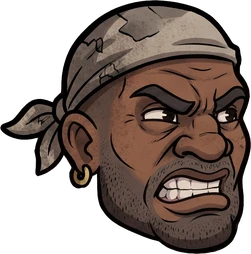
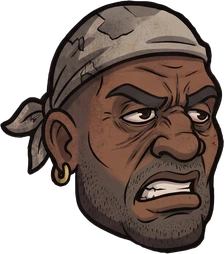
v0.282: ıspanak yerken yürünebilir, yeme %25 uzun; kancalı kafası 10 birim aşağı; yumruklunun kaçış yüzü yenilendi
Claude-Session: https://claude.ai/code/session_015gRKXrSRJC5S67h5b1oD4V

diff --git a/www/js/korsan.js b/www/js/korsan.js
@@ -130,14 +130,14 @@ function ucDeger(e,r,ilk,son){      // kaydedilen uzuv noktalarından biri oyunc
 // ---------- Korsan (insan dövüşçü): oyuncunun iskeleti gibi omuz → dirsek → bilek, kalça → diz; parça halkaları eklem noktası ----------
 // üç görünüm aynı iskelet ve hareketlerle: k = yumruklu, b = bıçaklı, p = tabancalı kaptan (boss)
 const KSK={      // her korsan kendi görsel setinden, tüm parçalar aynı ölçekte (eklem noktaları = parçalardaki halkalar)
-  k:{p:'k_',sc:0.855,A:{ust:[79.1,60.4],on:[134.9,48.3],elN:[87.2,38.2],elF:[92.7,41.0],uy:[111.2,54.2],bacak:[97.1,44.4],bot:[75.0,36.0],govde:[148.6,345.0],kalca:[112.4,26.8],kafa:[173.6,208.1],vur:[173.6,219.1],ahh:[173.6,217.1]},
+  k:{p:'k_',sc:0.855,A:{ust:[79.1,60.4],on:[134.9,48.3],elN:[87.2,38.2],elF:[92.7,41.0],uy:[111.2,54.2],bacak:[97.1,44.4],bot:[75.0,36.0],govde:[148.6,345.0],kalca:[112.4,26.8],kafa:[173.6,208.1],vur:[173.6,219.1],ahh:[173.6,217.1],aci:[155.0,219.0]},
      ust:185.6,on:172.3,uy:248.8,ak:[0,197.5],bh:111.0,bel:641.6,kN:[20.0,84.2],kF:[-16.0,84.2],omN:[-103.0,-220.2],omF:[50.6,-229.2],boyun:[12.6,-330.7]},
   b:{p:'b_',sc:0.794,A:{ust:[55.3,52.2],on:[125.2,45.5],elN:[65.9,32.1],elF:[91.8,40.6],uy:[87.9,39.7],bacak:[60.5,30.8],bot:[86.4,28.8],govde:[118.0,297.0],kalca:[98.4,49.7],kafa:[180.9,236.6],vur:[180.9,241.6],ahh:[180.9,246.6]},
      ust:137.0,on:165.6,uy:191.3,ak:[0,103.2],bh:249.2,bs:1.15,bel:624.4,kN:[15.0,75.9],kF:[-21.0,75.9],omN:[-53.2,-195.0],omF:[58.4,-204.0],boyun:[37.8,-283.5]},
   p:{p:'p_',sc:0.86,bf:1,A:{ust:[57.7,47.7],on:[104.6,39.0],elN:[133.9,38.5],elF:[85.1,40.1],uy:[74.3,45.2],bacak:[70.9,42.3],bot:[57.6,43.8],govde:[126.8,268.8],kalca:[85.8,50.2],kafa:[181.3,224.3],vur:[179.3,230.3],ahh:[179.3,246.3],ates:[3.0,45.9]},
   ust:137.0,on:130.3,uy:196.8,ak:[0,141.7],bh:131.2,bs:1.1,mz:[-0.0,352.4],bel:592.0,kN:[0.0,95.0],kF:[-36.0,95.0],omN:[-96.2,-151.8],omF:[47.8,-181.8],boyun:[-5.0,-231.6]},      // kaptan: belden aşağısı %10 büyük (bs, uyluk, bel yüksekliği), kafa 10 birim ileride
   h:{p:'h_',sc:0.9315,us:1.375,A:{ust:[65.4,43.8],on:[107.1,37.5],elN:[105.8,47.3],elB:[78.9,36.2],elF:[100.3,36.8],uy:[90.5,40.4],bacak:[75.6,36.1],bot:[68.2,25.7],govde:[176.8,326.0],alt:[182.8,47.4],kalca:[116.5,35.6],kafa:[69.1,128.1],vur:[67.1,127.1],ahh:[67.1,128.1],kanca:[15.8,49.6]},
-  ust:145.0,on:134.6,uy:184.1,ak:[0.0,151.2],bh:145.3,bel:662.0,tek:1,kN:[0.0,77.8],kF:[-40.0,77.8],omN:[-112.1,-219.9],omF:[24.7,-253.7],boyun:[-8.6,-286.1],goz:[-69.6,62.2],zt:[39.3,95.0],sp:[-104.7,-289.3],zl:[61,28],ud:80.5,kd:27.3,ks:1.05}      // ud: belden üstü aşağı kayma, kd: kafa aşağı kayma, ks: kafa ek ölçeği      // kancacı: yürümez, kanca fırlatır (goz: kancanın zincir halkası, zt: zincirli elin zincir çıkışı, sp: sırttaki makara)
+  ust:145.0,on:134.6,uy:184.1,ak:[0.0,151.2],bh:145.3,bel:662.0,tek:1,kN:[0.0,77.8],kF:[-40.0,77.8],omN:[-112.1,-219.9],omF:[24.7,-253.7],boyun:[-8.6,-286.1],goz:[-69.6,62.2],zt:[39.3,95.0],sp:[-104.7,-289.3],zl:[61,28],ud:80.5,kd:37.3,ks:1.05}      // ud: belden üstü aşağı kayma, kd: kafa aşağı kayma, ks: kafa ek ölçeği      // kancacı: yürümez, kanca fırlatır (goz: kancanın zincir halkası, zt: zincirli elin zincir çıkışı, sp: sırttaki makara)
 };
 const KDUR={F:0.5,N:0.62,B:0.66},KBDUR=0.7;      // vuruş süreleri: F = uzak kol yumruğu, N = yakın kol yumruğu, B = yakın elle bıçak / dipçik savurma; KBDUR: tutulurken kafa atma
 const KPZ={dur:{hx:0,torso:6,bas:-3,uN:-35,rN:-105,wN:0,uF:-55,rF:-100,wF:0,lN:3,kN:6,lF:-14,kF:12}};
@@ -289,7 +289,7 @@ function ciziKorsan(e,mask){
     ctx.save();ctx.translate(0,K.ud||0);ctx.rotate(p.torso*D);if(K.us)ctx.scale(K.us,K.us);      // us: belden yukarısının ölçeği; ud: belden üstü aşağı kayma
     krp(R[K.p+'govde'],K.A.govde,fl);if(ek&&!mask)bk(ek,'boy',K.boyun[0],K.boyun[1]);if(ek&&K.sp)uc(ek,3,K.sp[0],K.sp[1]);      // kancacı: sırttaki zincir makarası
     if(mask==='ust')yaraCiz(e,0,0,170,true);
-    ctx.save();ctx.translate(K.boyun[0]+(p.hb||0)*70,K.boyun[1]+(K.kd||0)+(p.hb||0)*28);ctx.rotate(p.bas*D);if(K.ks)ctx.scale(K.ks,K.ks);if(ek&&!mask){const hi=R[K.p+'kafa'];bk(ek,'kafa',hi.width/2-K.A.kafa[0],hi.height/2-K.A.kafa[1])}{const vy=e.vurT!=null&&S.t-e.vurT<0.6&&R[K.p+'vur'],ah=!vy&&e.dus&&(e.dusA||0)>0.5&&R[K.p+'ahh'];const ac=!vy&&!ah&&e.kac&&R[K.p+'aci'];krp(vy||ah||ac||R[K.p+'kafa'],vy?K.A.vur:ah?K.A.ahh:ac?K.A.vur:K.A.kafa,fl)};ctx.restore();
+    ctx.save();ctx.translate(K.boyun[0]+(p.hb||0)*70,K.boyun[1]+(K.kd||0)+(p.hb||0)*28);ctx.rotate(p.bas*D);if(K.ks)ctx.scale(K.ks,K.ks);if(ek&&!mask){const hi=R[K.p+'kafa'];bk(ek,'kafa',hi.width/2-K.A.kafa[0],hi.height/2-K.A.kafa[1])}{const vy=e.vurT!=null&&S.t-e.vurT<0.6&&R[K.p+'vur'],ah=!vy&&e.dus&&(e.dusA||0)>0.5&&R[K.p+'ahh'];const ac=!vy&&!ah&&e.kac&&R[K.p+'aci'];krp(vy||ah||ac||R[K.p+'kafa'],vy?K.A.vur:ah?K.A.ahh:ac?(K.A.aci||K.A.vur):K.A.kafa,fl)};ctx.restore();
     kKol(K,K.omN,p.uN,p.rN,p.wN,false,fl,ek,0);      // yakın kol en önde
     ctx.restore();
   }

diff --git a/www/js/ispanak.js b/www/js/ispanak.js
@@ -4,6 +4,7 @@ let ISP=[],ISPS=null,YEMS=null;            // ISP: yerdeki/uçan kutular, ISPS: 
 const ISP_BOY=180;               // görselin (500 px kare) oyun birimi boyu; kutunun kendisi ~133 birim
 const ISP_MRK=80;                // kutu tabanından ortasına
 const ISP_AGIZ=[150,-350];        // ağızdan biraz yukarıda ve uzakta, el ileriden tutar        // gövde uzayında ağız önü (el buraya gelir)
+const ISP_YAVAS=1.25;            // yeme animasyonu toplam süre çarpanı (%25 uzun)
 const ISP_G=4200;                // atılan / düşen kutunun yerçekimi
 Object.assign(S,{uzT:{N:0,F:0},uzan:null,yeme:null});
 
@@ -36,7 +37,7 @@ function ispPoz(o){              // hedefPoz sonunda: eğilme ve yeme animasyonu
     // yere uzanma: gövde normal eğilmedeki kadar eğik kalır (ekstra eğilme yok)
   }
   if(S.yeme){
-    const m=S.yeme,t=S.t-m.t0,uK=m.k==='N'?'aNu':'aFu',rK=m.k==='N'?'aNr':'aFr';let a;
+    const m=S.yeme,t=(S.t-m.t0)/ISP_YAVAS,uK=m.k==='N'?'aNu':'aFu',rK=m.k==='N'?'aNr':'aFr';let a;
     if(t<0.4)a=[-40,60];                                   // doğrulur, kutu ileride
     else if(t<1.8){const j=t>0.85?1:0;a=elIK(m.k,ISP_AGIZ[0]+j*Math.sin(t*34)*5,ISP_AGIZ[1]+j*Math.cos(t*27)*4);if(j){o.bas=-12;o.torso=-3}}      // ağza götürür, döker
     else if(t<2.15){a=[-170,-25];o.torso=4;o.bas=0}       // kutuyu kaldırır
@@ -49,7 +50,7 @@ function ispElCiz(ad){           // kol() içinde, bilek noktasında: yakın eld
   const m=S.yeme;if(!m||m.k!==ad||m.atildi)return;
   if(ad==='F'&&!m.onCiz){m.tf=ctx.getTransform();return}
   const im=m.bos?R.ispB:R.isp;if(!im)return;
-  const t=S.t-m.t0,q=ctx.getTransform(),th=Math.atan2(q.b,q.d);
+  const t=(S.t-m.t0)/ISP_YAVAS,q=ctx.getTransform(),th=Math.atan2(q.b,q.d);
   let tl=0;if(t>0.8&&t<1.85)tl=-1.2*Math.min(1,(t-0.8)/0.3)*Math.min(1,(1.85-t)/0.15)+(t>1.1?Math.sin(t*40)*0.08:0);      // ağza doğru eğilip dökülür
   const s=ISP_BOY/(ad==='N'?1.1:1);
   ctx.save();ctx.translate(64.6,0);ctx.rotate(-th+tl);ctx.drawImage(im,-s/2,-0.511*s,s,s);ctx.restore();
@@ -72,7 +73,7 @@ function ispGuncelle(dt){
     }
   }
   if(S.yeme){
-    const m=S.yeme,t=S.t-m.t0;S.vx=0;
+    const m=S.yeme,t=(S.t-m.t0)/ISP_YAVAS;      // yerken belden aşağısı serbest: yürünebilir
     if(!m.ses&&t>=0.85){m.ses=true;bufCal(YEMS,1)}      // yeme sesi: ağza dökmeye başlayınca
     if(!m.bos&&t>=1.45){m.bos=true;S.hp=Math.min(100,S.hp+10);S.en=Math.min(250,S.en+50);S.ispEnT=S.t+10;S.pops.push({x:S.x,y:S.y+1050,t:0,txt:'+10',f:0.3})}      // max canın %10'u
     if(!m.atildi&&t>=2.25){m.atildi=true;ispAt(m.k)}

diff --git a/www/index.html b/www/index.html
@@ -1,7 +1,7 @@
 <!doctype html>
 <html lang="tr"><head><meta charset="utf-8"><meta name="viewport" content="width=device-width,initial-scale=1,viewport-fit=cover,user-scalable=no">
 <title>Popeye Fighter</title>
-<link rel="stylesheet" href="css/oyun.css?v=0.281">
+<link rel="stylesheet" href="css/oyun.css?v=0.282">
 </head><body>
 
 
@@ -16,21 +16,21 @@
 <div class="mini" id="kapat">✕</div>
 <div id="yuk">YÜKLENİYOR…</div>
 
-<script src="js/ayar.js?v=0.281"></script>
-<script src="js/girdi.js?v=0.281"></script>
-<script src="js/el.js?v=0.281"></script>
-<script src="js/ozel.js?v=0.281"></script>
-<script src="js/mermi.js?v=0.281"></script>
-<script src="js/dusman_kur.js?v=0.281"></script>
-<script src="js/ses.js?v=0.281"></script>
-<script src="js/ispanak.js?v=0.281"></script>
-<script src="js/efekt.js?v=0.281"></script>
-<script src="js/savas.js?v=0.281"></script>
-<script src="js/korsan.js?v=0.281"></script>
-<script src="js/hud.js?v=0.281"></script>
-<script src="js/kombo.js?v=0.281"></script>
-<script src="js/oyuncu.js?v=0.281"></script>
-<script src="js/dongu.js?v=0.281"></script>
+<script src="js/ayar.js?v=0.282"></script>
+<script src="js/girdi.js?v=0.282"></script>
+<script src="js/el.js?v=0.282"></script>
+<script src="js/ozel.js?v=0.282"></script>
+<script src="js/mermi.js?v=0.282"></script>
+<script src="js/dusman_kur.js?v=0.282"></script>
+<script src="js/ses.js?v=0.282"></script>
+<script src="js/ispanak.js?v=0.282"></script>
+<script src="js/efekt.js?v=0.282"></script>
+<script src="js/savas.js?v=0.282"></script>
+<script src="js/korsan.js?v=0.282"></script>
+<script src="js/hud.js?v=0.282"></script>
+<script src="js/kombo.js?v=0.282"></script>
+<script src="js/oyuncu.js?v=0.282"></script>
+<script src="js/dongu.js?v=0.282"></script>
 </script>
 
 </body>

diff --git a/www/js/ayar.js b/www/js/ayar.js
@@ -1,9 +1,9 @@
 'use strict';
 // Ayarlar, sürüm, görsel yükleyici, ekran boyutu, oyuncu durumu (S)
 // ---------- Görseller: hepsi tek yükleyiciyle; tamamı inince oyun başlar ----------
-const OYUN_SURUM='v0.281';      // ekrandaki sürüm (her değişiklikte artar)
+const OYUN_SURUM='v0.282';      // ekrandaki sürüm (her değişiklikte artar)
 document.getElementById('surum').textContent=OYUN_SURUM;
-const SURUM='?v=66';                 // görsel değişince artır: tarayıcı eski önbelleği kullanmasın
+const SURUM='?v=67';                 // görsel değişince artır: tarayıcı eski önbelleği kullanmasın
 const KP=['kafa','govde','kalca','ust','on','elN','elF','uy','bacak','bot'];      // korsan parça seti (k: yumruklu, b: bıçaklı, p: tabancalı kaptan)
 const ADLAR=['kalca','ustkol','onkol','onkol2','uyluk','altpan','bacak_bot','el_yum','el_yum_f','el_ac_n','el_ac_f','el_pN','el_pF','p_mermi','p_ates','h_elB','h_kanca','h_zincir']
   .concat([...Array(11).keys()].map(i=>'govde'+i),...['k_','b_','p_','h_'].map(q=>KP.map(n=>q+n)));
